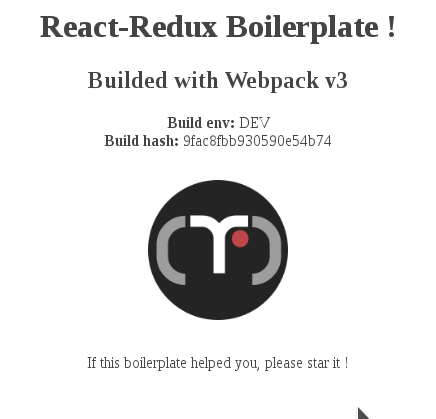
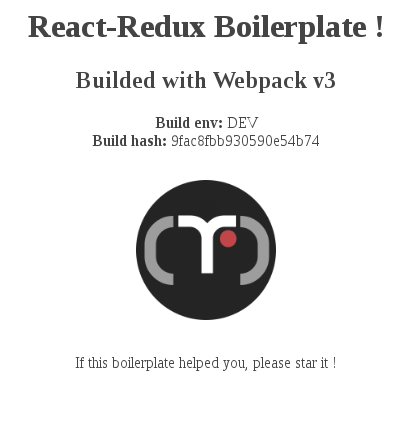
Update readme and screenshot

diff --git a/README.md b/README.md
@@ -1,8 +1,8 @@
-React + Redux + Webpack 3 Boilerplate
+# React + Redux + Webpack 3 Boilerplate
 
 Because it can be a headache to configure Webpack, I decided to create this boilerplate repository, which is not finished yet.
 
-# Features
+## Features
 - [x] __Webpack v3__
 - [x] __React v15__
 - [x] __Live reload__
@@ -27,18 +27,17 @@ Build the current application for production
 ```sh
 $ npm run prod
 ```
-You can check the production build with http-server
+You can check the production build with http-server on [http://localhost:8080/](http://localhost:8080/)
 ```sh
 $ npm run serve
 ```
 
 
-
-# Tips and Trick 
+## Tips and Tricks
 
 For Linux users, if hot reload does not work, try to increase the file watcher limit :
 ```sh
-echo 100000 | sudo tee /proc/sys/fs/inotify/max_user_watches
+$ echo 100000 | sudo tee /proc/sys/fs/inotify/max_user_watches
 ```
 I lost few hours to understand that was the problem and not my webpack configuration file !
 
